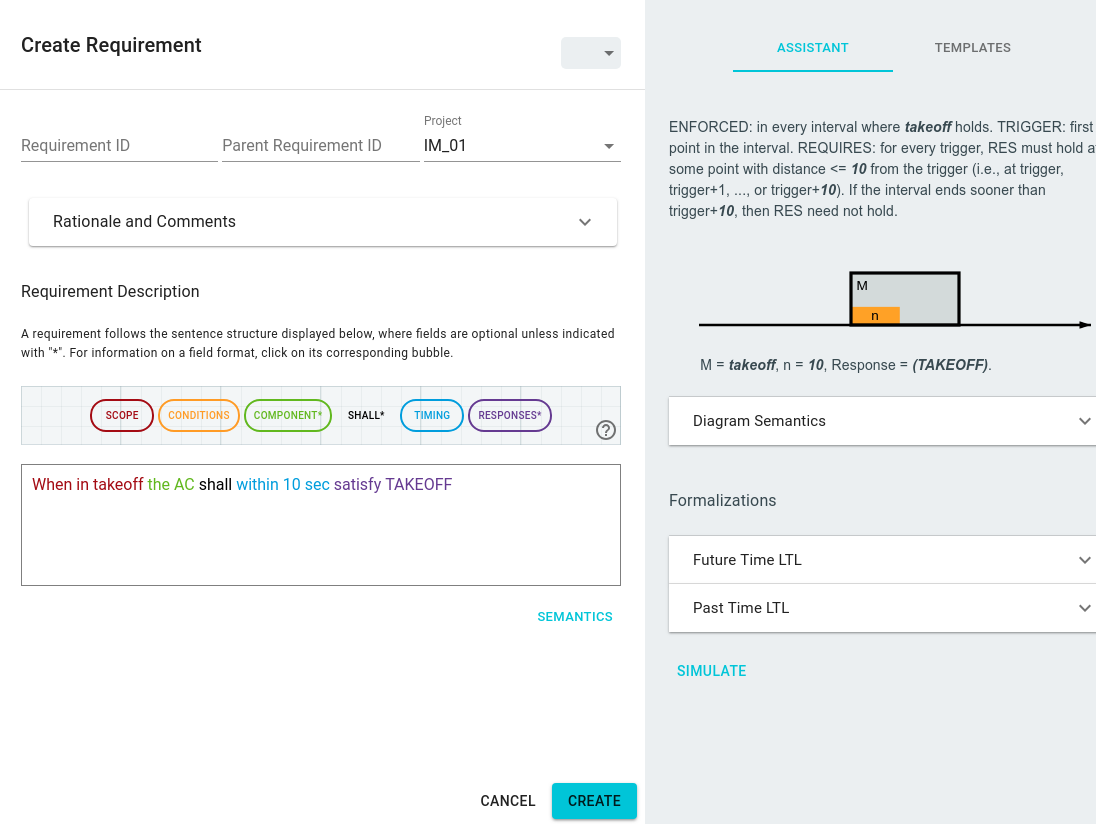
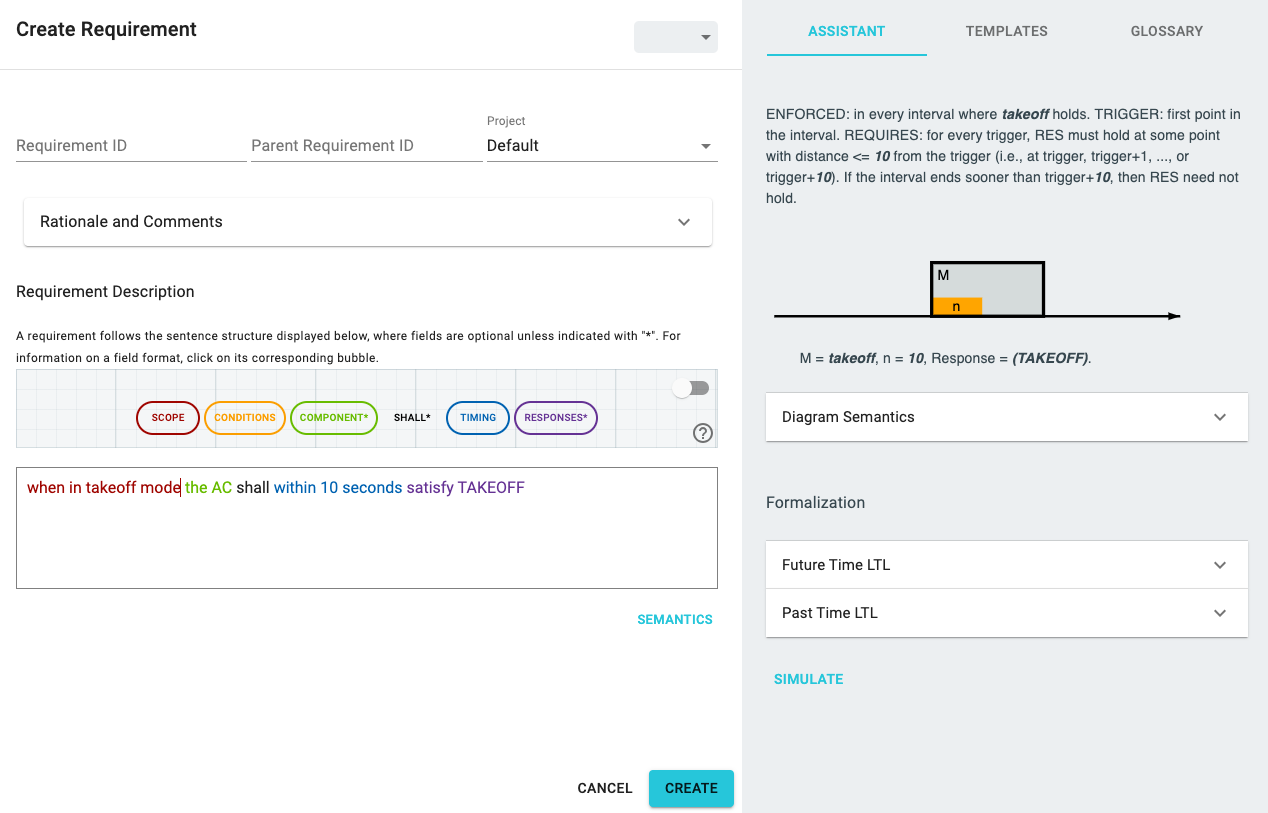
Updated screenshot and description in LTLSIM documentation.

diff --git a/fret-electron/docs/_media/UsingTheSimulator/ltlsim-API-new.md b/fret-electron/docs/_media/UsingTheSimulator/ltlsim-API-new.md
@@ -251,7 +251,7 @@ propositions are used as Boolean formulas:
 ## Example
 
 As an example, we use the requirement:
-`When in takeoff, the AC shall within 10 seconds satisfy TAKEOFF`.
+`When in takeoff mode, the AC shall within 10 seconds satisfy TAKEOFF`.
 ***
 <img src="../screen_shots/ltlsim_SC1.png">
 

diff --git a/fret-electron/docs/_media/UsingTheSimulator/ltlsim.md b/fret-electron/docs/_media/UsingTheSimulator/ltlsim.md
@@ -229,7 +229,7 @@ propositions are used as Boolean formulas:
 ## Example
 
 As an example, we use the requirement:
-`When in takeoff, the AC shall within 10 seconds satisfy TAKEOFF`.
+`When in takeoff mode, the AC shall within 10 seconds satisfy TAKEOFF`.
 ***
 <img src="../screen_shots/ltlsim_SC1.png">
 
